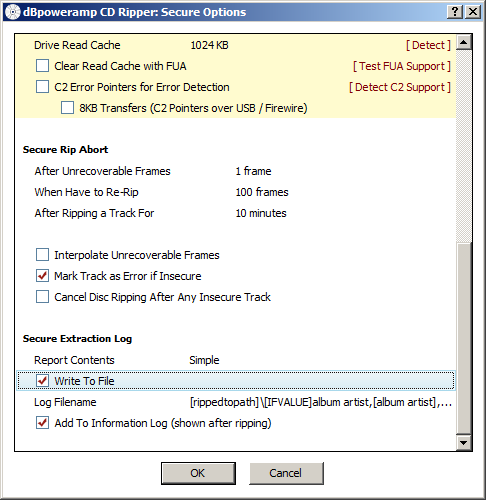
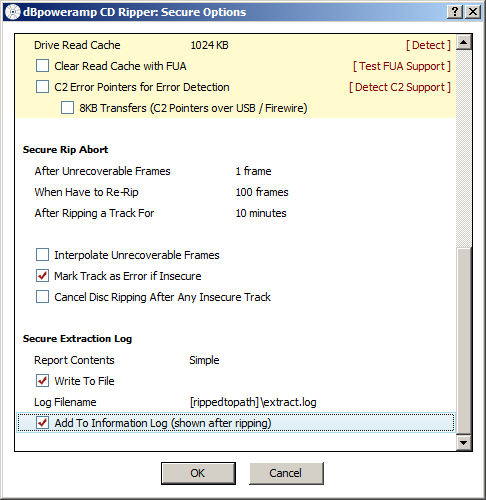
updated dbpoweramp setup docs

Changed region(s): [[0.0309, 0.72, 0.9568, 0.87], [0.9259, 0.48, 0.9877, 0.51]]

diff --git a/doc/setupDbpoweramp.md b/doc/setupDbpoweramp.md
@@ -1,5 +1,5 @@
 # dBpoweramp setup and configuration
-
+Ripper Optio
 ## Installation
 
 Go to the dbPoweramp download page below:
@@ -81,7 +81,9 @@ Scrolling down we see the following options:
 * *When have to Re-Rip* - set to 100 frames
 * *After Ripping a Track For* - set to 10 minutes
 
-Finally, check *Mark Track as Error if Insecure*, and check both the *Secure Extraction Log* options.
+Also, check *Mark Track as Error if Insecure*, and check both the *Secure Extraction Log* options. Finally, click to the right of *Log Filename* and change the value to:
+
+    [rippedtopath]\extract.log
 
 ## AccurateRip configuration
 
@@ -96,6 +98,16 @@ Press *Configure*. After a few seconds the result is:
 This value is automatically added to the CD-ROM settings:
 
 ![](./img/dbpaAccurateRip3.png)
+
+## Album art and metadata options
+
+Go back to *CD Ripper Options* and click on *Options* next to *Meta Data & ID Tag*:
+
+![](./img/dbpaMetaID.png)
+
+Click to the right of *Write to [output folder]*, and select *None*. This will disable the writing of any artwork JPEGs to the output folder.
+
+![](./img/dbpaAlbumArt.png)
 
 Close the *CD Ripper* application. Now dBpoweramp is configured and ready for use! 
 
